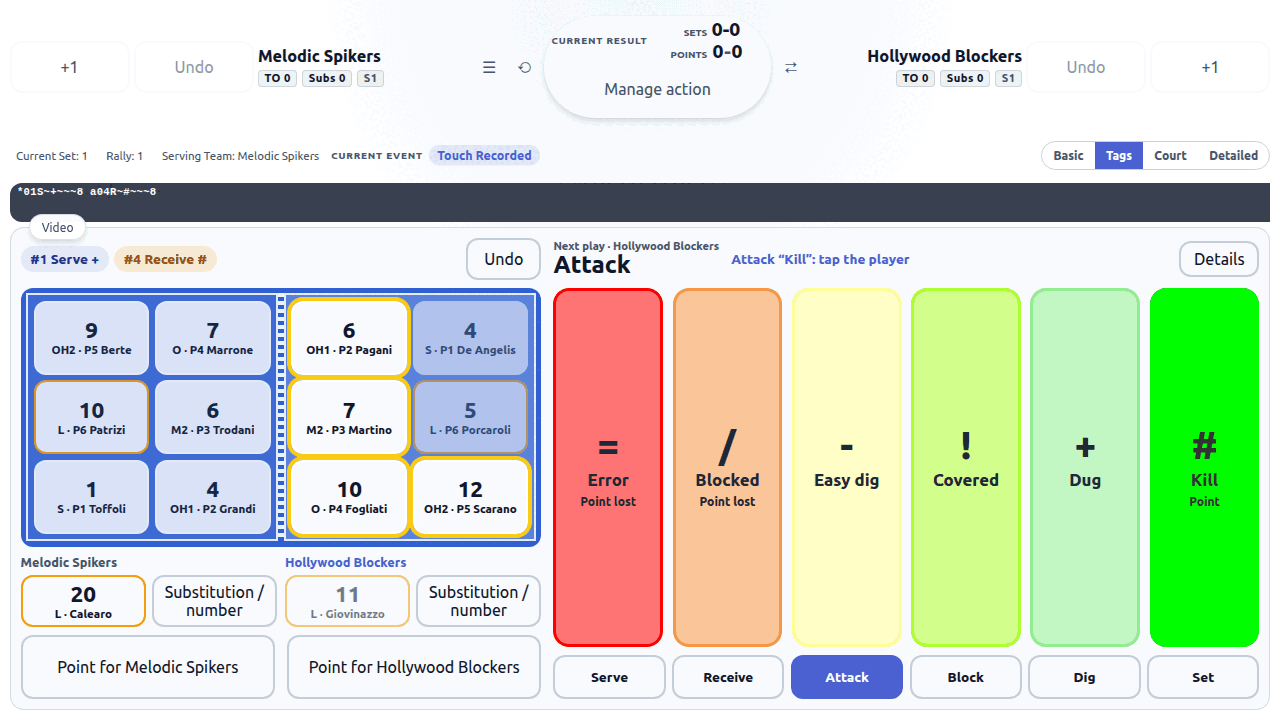
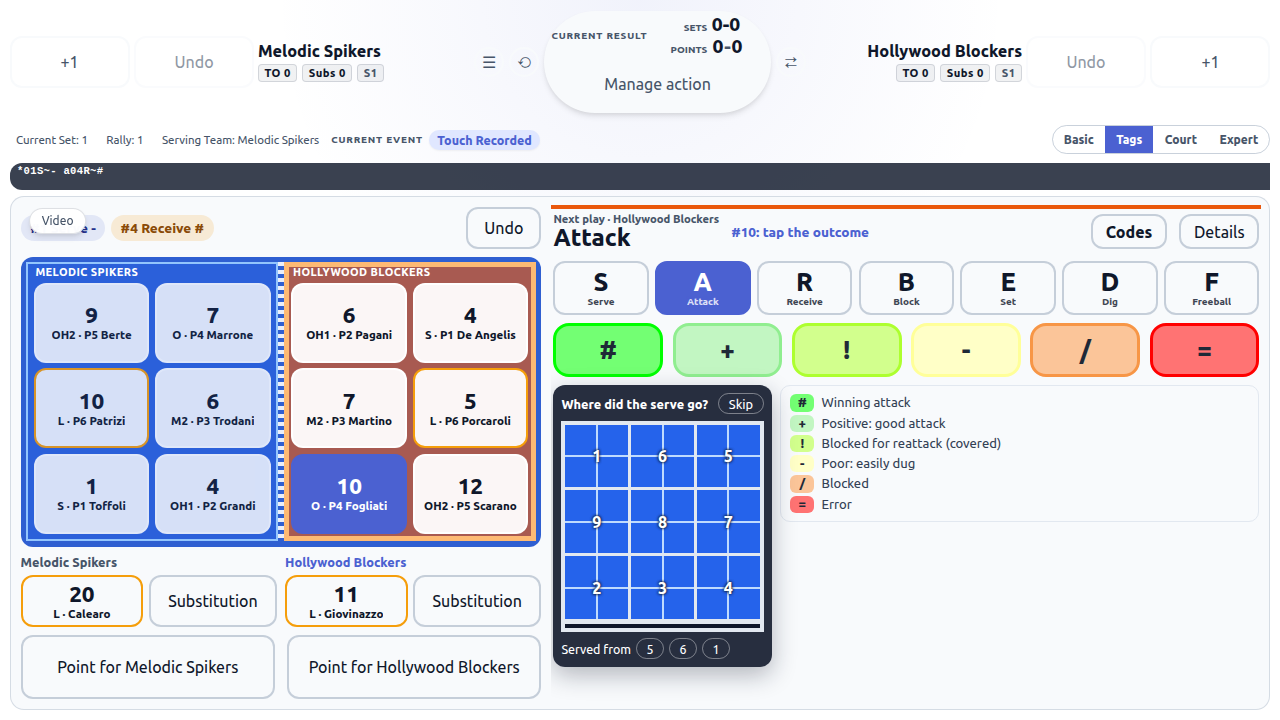
Tags tutorial retaken on the new keypad; rosters without player or libero limits; Codes beside Details

diff --git a/src/i18n/locales/ar.ts b/src/i18n/locales/ar.ts
@@ -2618,4 +2618,21 @@ export const ar = {
   quickStartStepOf: "الخطوة {{current}} من {{total}}",
   quickStartLiberos: "الليبرو",
   quickStartLiberoNumber: "رقم الليبرو {{index}}",
+  tutorialTagK01: "في بداية الشوط اختر الوسوم: التسجيل بالأزرار فقط دون الرسم على الملعب.",
+  tutorialTagK02: "الإرسال: يعرف OVS المرسل من الدوران وS (إرسال) مختار مسبقًا. اضغط التقييم فقط، هنا - . على اليمين يشرح المفتاح معنى كل رمز.",
+  tutorialTagK03: "رمز مركّب: بعد إرسال - لا يكون استقبال الفريق الآخر إلا # أو +. يختار OVS الاستقبال R ويضيء هذين: اضغط من استقبل، هنا رقم 4 من هوليوود بلوكرز…",
+  tutorialTagK04: "…ثم التقييم، هنا # (ممتاز).",
+  tutorialTagK05: "يقترح OVS اللعبة التالية، الهجوم (يضيف الإعداد تلقائيًا). اضغط من هاجم، هنا رقم 10…",
+  tutorialTagK06: "…والتقييم، هنا # (نقطة). تتحدث النتيجة والإرسال والدوران تلقائيًا.",
+  tutorialTagK07: "اختياري: أين ذهب الهجوم. اضغط المنطقة (على اللوحي والحاسوب المنطقة الفرعية أيضًا) أو تخطَّ.",
+  tutorialTagK08: "إذا أخطأت، تراجع يحذف آخر لمسة ويستمر التبادل من هناك.",
+  tutorialTagK09: "إذا لم تكن اللعبة هي المقترحة، اختر المهارة من صف الأزرار: هنا B (حائط صد).",
+  tutorialTagK10: "ثم من صدّ، هنا رقم 6 من ميلوديك سبايكرز…",
+  tutorialTagK11: "…والتقييم، هنا # (نقطة صد).",
+  tutorialTagK12: "لنقطة بلا لمسة تُسجَّل (خطأ، شبكة، بطاقة) استخدم نقطة لـ …",
+  tutorialTagK13: "اللمسة لمن ليس في الملعب؟ التبديل يفتح الاحتياط ولوحة الأرقام؛ الليبرو بجانبه.",
+  tutorialTagK14: "اكتب رقم القميص: هنا 4…",
+  tutorialTagK15: "…و2: برقمين يدخل الرقم فورًا. إذا امتلأ الملعب يسأل OVS من يخرج.",
+  tutorialTagK16: "الرموز تعرض قائمة رموز DataVolley المدخلة حتى الآن، ويمكن تصحيحها من هناك.",
+  tutorialTagK17: "كل لمسة رمز DataVolley: هذا ما يكتبه تصدير DVW. عد إلى لوحة المفاتيح للمتابعة.",
 };

diff --git a/src/i18n/locales/ja.ts b/src/i18n/locales/ja.ts
@@ -2597,4 +2597,21 @@ export const ja = {
   quickStartStepOf: "ステップ {{current}}／{{total}}",
   quickStartLiberos: "リベロ",
   quickStartLiberoNumber: "リベロ{{index}}の背番号",
+  tutorialTagK01: "セット開始時にタグを選ぶ：コートに描かずボタンだけで記録します。",
+  tutorialTagK02: "サーブ：サーバーはローテーションからOVSが把握し、S（サーブ）は選択済み。評価だけタップ、ここでは - 。右の凡例が各記号の意味を示します。",
+  tutorialTagK03: "複合コード：- のサーブの後、相手のレセプションは # か + だけ。OVSがRを選び、その2つを点灯：レシーブした選手をタップ、ここではハリウッド・ブロッカーズの4…",
+  tutorialTagK04: "…次に評価、ここでは #（完璧）。",
+  tutorialTagK05: "OVSが次のプレー、アタックを提案（トスは自動で追加）。アタックした選手をタップ、ここでは10…",
+  tutorialTagK06: "…そして評価、ここでは #（得点）。得点、サーブ、ローテーションは自動で更新されます。",
+  tutorialTagK07: "任意：アタックの行き先。ゾーンをタップ（タブレットとPCではサブゾーンも）、またはスキップ。",
+  tutorialTagK08: "間違えたら、元に戻すで最後のタッチを削除し、そこからラリーを続けます。",
+  tutorialTagK09: "提案と違うプレーなら、キーの列で技術を選ぶ：ここでは B（ブロック）。",
+  tutorialTagK10: "次にブロックした選手、ここではメロディック・スパイカーズの6…",
+  tutorialTagK11: "…そして評価、ここでは #（ブロック得点）。",
+  tutorialTagK12: "記録するタッチのない得点（反則、ネット、カード）は「…に得点」を使います。",
+  tutorialTagK13: "コートにいない選手のタッチ？ 交代でベンチとキーパッドを開きます。リベロはその隣です。",
+  tutorialTagK14: "背番号を入力：ここでは4…",
+  tutorialTagK15: "…と2：2桁ですぐ入力。コートが満員ならOVSが誰が出るかをたずねます。",
+  tutorialTagK16: "コードでこれまでに入力したDataVolleyコードの一覧を表示し、そこから修正できます。",
+  tutorialTagK17: "各タッチはDataVolleyコード：DVWエクスポートに書かれる内容です。キーパッドに戻って続けます。",
 };

diff --git a/src/i18n/locales/de.ts b/src/i18n/locales/de.ts
@@ -2616,4 +2616,21 @@ export const de = {
   quickStartStepOf: "Schritt {{current}} von {{total}}",
   quickStartLiberos: "Liberos",
   quickStartLiberoNumber: "Nummer Libero {{index}}",
+  tutorialTagK01: "Zu Satzbeginn Tags wählen: erfasst wird nur mit Tasten, ohne aufs Feld zu zeichnen.",
+  tutorialTagK02: "Aufschlag: den Aufschläger kennt OVS aus der Rotation, S (Aufschlag) ist schon gewählt. Nur die Bewertung tippen, hier - . Rechts erklärt die Legende jedes Zeichen.",
+  tutorialTagK03: "Zusammengesetzter Code: nach einem Aufschlag - kann die Annahme der anderen Mannschaft nur # oder + sein. OVS wählt schon R und hebt die beiden hervor: tippe, wer angenommen hat, hier die 4 der Hollywood Blockers…",
+  tutorialTagK04: "…dann die Bewertung, hier # (perfekt).",
+  tutorialTagK05: "OVS schlägt den nächsten Spielzug vor, den Angriff (das Zuspiel fügt es selbst hinzu). Tippe, wer angegriffen hat, hier die 10…",
+  tutorialTagK06: "…und die Bewertung, hier # (Punkt). Spielstand, Aufschlag und Rotation aktualisieren sich selbst.",
+  tutorialTagK07: "Optional: wohin der Angriff ging. Zone tippen (auf Tablet und Computer auch die Unterzone) oder Überspringen.",
+  tutorialTagK08: "Bei einem Fehler entfernt Rückgängig den letzten Kontakt und der Ballwechsel geht von dort weiter.",
+  tutorialTagK09: "Ist der Spielzug nicht der vorgeschlagene, wähle das Element in der Tastenreihe: hier B (Block).",
+  tutorialTagK10: "Dann wer geblockt hat, hier die 6 der Melodic Spikers…",
+  tutorialTagK11: "…und die Bewertung, hier # (Blockpunkt).",
+  tutorialTagK12: "Für einen Punkt ohne Kontakt (Fehler, Netz, Karte) Punkt für … verwenden.",
+  tutorialTagK13: "Kontakt von jemandem, der nicht auf dem Feld steht? Wechsel öffnet Bank und Tastatur; die Liberos stehen daneben.",
+  tutorialTagK14: "Trikotnummer eintippen: hier 4…",
+  tutorialTagK15: "…und 2: mit zwei Ziffern ist die Nummer sofort drin. Ist das Feld voll, fragt OVS, wer rausgeht.",
+  tutorialTagK16: "Codes zeigt die Liste der bisher eingegebenen DataVolley-Codes, dort lassen sie sich korrigieren.",
+  tutorialTagK17: "Jeder Kontakt ist ein DataVolley-Code: genau das schreibt der DVW-Export. Zurück zur Tastatur, um weiterzumachen.",
 };

diff --git a/src/i18n/locales/it.ts b/src/i18n/locales/it.ts
@@ -2618,4 +2618,21 @@ export const it = {
   quickStartStepOf: "Passaggio {{current}} di {{total}}",
   quickStartLiberos: "Liberi",
   quickStartLiberoNumber: "Numero del libero {{index}}",
+  tutorialTagK01: "All'inizio del set scegli Tag: si rileva solo con i pulsanti, senza disegnare sul campo.",
+  tutorialTagK02: "Battuta: chi batte OVS lo sa già dalla rotazione e B (battuta) è già scelta. Tocca solo la valutazione, qui - . A destra la legenda dice cosa significa ogni simbolo.",
+  tutorialTagK03: "Codice composto: dopo una battuta - la ricezione dell'altra squadra può essere solo # o +. OVS sceglie già R e accende quelle due: tocca chi ha ricevuto, qui il 4 delle Hollywood Blockers…",
+  tutorialTagK04: "…poi la valutazione, qui # (perfetta).",
+  tutorialTagK05: "OVS propone il tocco successivo, l'attacco (l'alzata del palleggiatore la aggiunge da solo). Tocca chi ha attaccato, qui il 10…",
+  tutorialTagK06: "…e la valutazione, qui # (punto). Punteggio, battuta e rotazione si aggiornano da soli.",
+  tutorialTagK07: "Facoltativo: dove è andato l'attacco. Tocca la zona (su tablet e computer anche la sottozona), oppure Salta.",
+  tutorialTagK08: "Se avevi sbagliato, Annulla toglie l'ultimo tocco e lo scambio riprende da lì.",
+  tutorialTagK09: "Se il tocco non è quello proposto, scegli il fondamentale nella riga dei tasti: qui M (muro).",
+  tutorialTagK10: "Poi chi ha murato, qui il 6 delle Melodic Spikers…",
+  tutorialTagK11: "…e la valutazione, qui # (punto a muro).",
+  tutorialTagK12: "Per un punto senza un tocco da registrare (fallo, invasione, cartellino) usa Punto a …",
+  tutorialTagK13: "Il tocco è di chi non è in campo? Sostituzione apre la panchina e il tastierino; i liberi sono accanto.",
+  tutorialTagK14: "Digita il numero di maglia: qui 4…",
+  tutorialTagK15: "…e 2: con due cifre il numero entra subito. Se il campo è pieno, OVS chiede chi esce.",
+  tutorialTagK16: "Codici mostra l'elenco dei codici DataVolley inseriti finora, e da lì si possono correggere.",
+  tutorialTagK17: "Ogni tocco è un codice DataVolley: è quello che esce nell'export DVW. Torna al tastierino per continuare.",
 };

diff --git a/src/i18n/locales/tr.ts b/src/i18n/locales/tr.ts
@@ -2612,4 +2612,21 @@ export const tr = {
   quickStartStepOf: "Adım {{current}} / {{total}}",
   quickStartLiberos: "Liberolar",
   quickStartLiberoNumber: "{{index}}. libero numarası",
+  tutorialTagK01: "Set başında Etiketler'i seç: sahaya çizmeden yalnızca düğmelerle kayıt yapılır.",
+  tutorialTagK02: "Servis: servisçiyi OVS rotasyondan bilir, S (servis) zaten seçili. Sadece değerlendirmeye dokun, burada - . Sağdaki açıklama her sembolü anlatır.",
+  tutorialTagK03: "Bileşik kod: - servisten sonra diğer takımın karşılaması yalnızca # ya da + olabilir. OVS R'yi seçer ve bu ikisini yakar: kimin karşıladığına dokun, burada Hollywood Blockers'ın 4'ü…",
+  tutorialTagK04: "…sonra değerlendirme, burada # (mükemmel).",
+  tutorialTagK05: "OVS sonraki hareketi, hücumu önerir (pası kendisi ekler). Kimin hücum ettiğine dokun, burada 10…",
+  tutorialTagK06: "…ve değerlendirme, burada # (sayı). Skor, servis ve rotasyon kendiliğinden güncellenir.",
+  tutorialTagK07: "İsteğe bağlı: hücum nereye gitti. Bölgeye dokun (tablet ve bilgisayarda alt bölgeye de) ya da Atla.",
+  tutorialTagK08: "Yanlış yaptıysan Geri al son dokunuşu siler ve ralli oradan devam eder.",
+  tutorialTagK09: "Hareket önerilen değilse tuş sırasından tekniği seç: burada B (blok).",
+  tutorialTagK10: "Sonra kimin blok yaptığı, burada Melodic Spikers'ın 6'sı…",
+  tutorialTagK11: "…ve değerlendirme, burada # (blok sayısı).",
+  tutorialTagK12: "Kaydedilecek dokunuş olmayan bir sayı için (hata, file, kart) … için sayı'yı kullan.",
+  tutorialTagK13: "Dokunuş sahada olmayan birinin mi? Oyuncu değişikliği yedekleri ve tuş takımını açar; liberolar yanındadır.",
+  tutorialTagK14: "Forma numarasını yaz: burada 4…",
+  tutorialTagK15: "…ve 2: iki haneyle numara hemen girer. Saha doluysa OVS kimin çıkacağını sorar.",
+  tutorialTagK16: "Kodlar şimdiye kadar girilen DataVolley kodlarının listesini gösterir, oradan düzeltilebilir.",
+  tutorialTagK17: "Her dokunuş bir DataVolley kodudur: DVW dışa aktarımının yazdığı budur. Devam etmek için tuş takımına dön.",
 };

diff --git a/src/i18n/locales/es.ts b/src/i18n/locales/es.ts
@@ -2618,4 +2618,21 @@ export const es = {
   quickStartStepOf: "Paso {{current}} de {{total}}",
   quickStartLiberos: "Líberos",
   quickStartLiberoNumber: "Dorsal del líbero {{index}}",
+  tutorialTagK01: "Al inicio del set elige Etiquetas: se registra solo con botones, sin dibujar en la cancha.",
+  tutorialTagK02: "Saque: OVS ya sabe quién saca por la rotación y S (saque) ya está elegido. Toca solo la valoración, aquí - . A la derecha la leyenda explica cada símbolo.",
+  tutorialTagK03: "Código compuesto: tras un saque - la recepción del otro equipo solo puede ser # o +. OVS ya elige R y enciende esas dos: toca quién recibió, aquí el 4 de Hollywood Blockers…",
+  tutorialTagK04: "…luego la valoración, aquí # (perfecta).",
+  tutorialTagK05: "OVS propone la siguiente jugada, el ataque (la colocación la añade solo). Toca quién atacó, aquí el 10…",
+  tutorialTagK06: "…y la valoración, aquí # (punto). Marcador, saque y rotación se actualizan solos.",
+  tutorialTagK07: "Opcional: adónde fue el ataque. Toca la zona (en tablet y ordenador también la subzona) u Omitir.",
+  tutorialTagK08: "Si te equivocaste, Deshacer quita el último toque y la jugada sigue desde ahí.",
+  tutorialTagK09: "Si la jugada no es la propuesta, elige el fundamento en la fila de teclas: aquí B (bloqueo).",
+  tutorialTagK10: "Luego quién bloqueó, aquí el 6 de Melodic Spikers…",
+  tutorialTagK11: "…y la valoración, aquí # (punto de bloqueo).",
+  tutorialTagK12: "Para un punto sin toque que registrar (falta, red, tarjeta) usa Punto para …",
+  tutorialTagK13: "¿El toque es de alguien que no está en cancha? Sustitución abre el banquillo y el teclado; los líberos están al lado.",
+  tutorialTagK14: "Escribe el dorsal: aquí 4…",
+  tutorialTagK15: "…y 2: con dos cifras el dorsal entra enseguida. Si la cancha está llena, OVS pregunta quién sale.",
+  tutorialTagK16: "Códigos muestra la lista de códigos DataVolley introducidos, y desde ahí se corrigen.",
+  tutorialTagK17: "Cada toque es un código DataVolley: es lo que escribe la exportación DVW. Vuelve al teclado para seguir.",
 };

diff --git a/src/i18n/locales/en.ts b/src/i18n/locales/en.ts
@@ -2618,4 +2618,21 @@ export const en = {
   quickStartStepOf: "Step {{current}} of {{total}}",
   quickStartLiberos: "Liberos",
   quickStartLiberoNumber: "Libero {{index}} number",
+  tutorialTagK01: "At the start of the set choose Tags: you scout with buttons only, without drawing on the court.",
+  tutorialTagK02: "Serve: OVS knows the server from the rotation and S (serve) is already chosen. Just tap the evaluation, here - . On the right the legend says what each symbol means.",
+  tutorialTagK03: "Compound code: after a - serve the other team's reception can only be # or +. OVS already picks R and lights those two: tap who received, here number 4 of Hollywood Blockers…",
+  tutorialTagK04: "…then the evaluation, here # (perfect).",
+  tutorialTagK05: "OVS proposes the next play, the attack (it adds the setter's set by itself). Tap who attacked, here number 10…",
+  tutorialTagK06: "…and the evaluation, here # (kill). Score, serve and rotation update by themselves.",
+  tutorialTagK07: "Optional: where the attack went. Tap the zone (on tablets and computers also the subzone), or Skip.",
+  tutorialTagK08: "If you made a mistake, Undo removes the last touch and the rally goes on from there.",
+  tutorialTagK09: "If the play is not the one proposed, choose the skill on the key row: here B (block).",
+  tutorialTagK10: "Then who blocked, here number 6 of Melodic Spikers…",
+  tutorialTagK11: "…and the evaluation, here # (block point).",
+  tutorialTagK12: "For a point with no touch to record (fault, net, card) use Point for …",
+  tutorialTagK13: "Is the touch by someone not on court? Substitution opens the bench and the keypad; the liberos are beside it.",
+  tutorialTagK14: "Type the jersey number: here 4…",
+  tutorialTagK15: "…and 2: with two digits the number goes in at once. If the court is full, OVS asks who goes out.",
+  tutorialTagK16: "Codes shows the list of DataVolley codes entered so far, and they can be corrected from there.",
+  tutorialTagK17: "Every touch is a DataVolley code: it is what the DVW export writes. Back to the keypad to go on.",
 };

diff --git a/src/i18n/locales/ro.ts b/src/i18n/locales/ro.ts
@@ -2618,4 +2618,21 @@ export const ro = {
   quickStartStepOf: "Pasul {{current}} din {{total}}",
   quickStartLiberos: "Libero",
   quickStartLiberoNumber: "Numărul liberoului {{index}}",
+  tutorialTagK01: "La începutul setului alege Etichete: înregistrezi doar cu butoane, fără să desenezi pe teren.",
+  tutorialTagK02: "Serviciu: OVS știe cine servește din rotație și S (serviciu) e deja ales. Atinge doar evaluarea, aici - . În dreapta legenda explică fiecare simbol.",
+  tutorialTagK03: "Cod compus: după un serviciu - preluarea celeilalte echipe poate fi doar # sau +. OVS alege deja R și le aprinde pe acestea: atinge cine a preluat, aici 4 de la Hollywood Blockers…",
+  tutorialTagK04: "…apoi evaluarea, aici # (perfectă).",
+  tutorialTagK05: "OVS propune faza următoare, atacul (pasa o adaugă singur). Atinge cine a atacat, aici 10…",
+  tutorialTagK06: "…și evaluarea, aici # (punct). Scorul, serviciul și rotația se actualizează singure.",
+  tutorialTagK07: "Opțional: unde a mers atacul. Atinge zona (pe tabletă și calculator și subzona) sau Sari.",
+  tutorialTagK08: "Dacă ai greșit, Anulează scoate ultima atingere și faza continuă de acolo.",
+  tutorialTagK09: "Dacă faza nu e cea propusă, alege elementul din rândul de taste: aici B (blocaj).",
+  tutorialTagK10: "Apoi cine a blocat, aici 6 de la Melodic Spikers…",
+  tutorialTagK11: "…și evaluarea, aici # (punct din blocaj).",
+  tutorialTagK12: "Pentru un punct fără atingere de înregistrat (greșeală, fileu, cartonaș) folosește Punct pentru …",
+  tutorialTagK13: "Atingerea e a cuiva care nu e pe teren? Înlocuire deschide banca și tastatura; liberourile sunt alături.",
+  tutorialTagK14: "Tastează numărul: aici 4…",
+  tutorialTagK15: "…și 2: cu două cifre numărul intră imediat. Dacă terenul e plin, OVS întreabă cine iese.",
+  tutorialTagK16: "Coduri arată lista codurilor DataVolley introduse, iar de acolo se pot corecta.",
+  tutorialTagK17: "Fiecare atingere e un cod DataVolley: exact ce scrie exportul DVW. Înapoi la tastatură pentru a continua.",
 };

diff --git a/src/i18n/locales/zh.ts b/src/i18n/locales/zh.ts
@@ -2616,4 +2616,21 @@ export const zh = {
   quickStartStepOf: "第 {{current}} 步，共 {{total}} 步",
   quickStartLiberos: "自由人",
   quickStartLiberoNumber: "自由人 {{index}} 号码",
+  tutorialTagK01: "本局开始时选择标签：只用按钮记录，不在球场上画。",
+  tutorialTagK02: "发球：OVS 已从轮转知道发球者，S（发球）已选中。只需点评价，这里是 - 。右侧图例说明每个符号的含义。",
+  tutorialTagK03: "组合代码：发球 - 之后，对方的一传只能是 # 或 +。OVS 已选好 R 并点亮这两个：点一传的球员，这里是好莱坞拦网者的 4 号…",
+  tutorialTagK04: "…再点评价，这里是 #（完美）。",
+  tutorialTagK05: "OVS 提示下一动作——进攻（二传会自动添加）。点进攻球员，这里是 10 号…",
+  tutorialTagK06: "…再点评价，这里是 #（得分）。比分、发球和轮转会自动更新。",
+  tutorialTagK07: "可选：进攻落点。点区域（平板和电脑上还可点子区域），或跳过。",
+  tutorialTagK08: "如果点错了，撤销会删除最后一次触球，回合从那里继续。",
+  tutorialTagK09: "如果动作不是提示的那个，在按键行中选技术：这里是 B（拦网）。",
+  tutorialTagK10: "然后点拦网的球员，这里是旋律扣球手的 6 号…",
+  tutorialTagK11: "…再点评价，这里是 #（拦网得分）。",
+  tutorialTagK12: "没有可记录触球的得分（犯规、触网、红黄牌）请用“…得分”。",
+  tutorialTagK13: "触球的人不在场上？换人会打开替补和键盘；自由人就在旁边。",
+  tutorialTagK14: "输入球衣号码：这里是 4…",
+  tutorialTagK15: "…和 2：两位数字会立即输入。如果场上已满，OVS 会询问谁下场。",
+  tutorialTagK16: "代码显示至今输入的 DataVolley 代码列表，可在其中更正。",
+  tutorialTagK17: "每次触球都是一个 DataVolley 代码：这就是 DVW 导出写入的内容。返回键盘继续。",
 };

diff --git a/src/i18n/locales/sl.ts b/src/i18n/locales/sl.ts
@@ -2616,4 +2616,21 @@ export const sl = {
   quickStartStepOf: "Korak {{current}} od {{total}}",
   quickStartLiberos: "Libera",
   quickStartLiberoNumber: "Številka libera {{index}}",
+  tutorialTagK01: "Na začetku niza izberi Oznake: beležiš samo z gumbi, brez risanja po igrišču.",
+  tutorialTagK02: "Servis: OVS ve, kdo servira, iz rotacije, S (servis) je že izbran. Tapni samo oceno, tu - . Desno legenda pove, kaj pomeni vsak znak.",
+  tutorialTagK03: "Sestavljena koda: po servisu - je sprejem druge ekipe lahko samo # ali +. OVS že izbere R in prižge ti dve: tapni, kdo je sprejel, tu 4 ekipe Hollywood Blockers…",
+  tutorialTagK04: "…nato oceno, tu # (odlično).",
+  tutorialTagK05: "OVS predlaga naslednjo akcijo, napad (podajo doda sam). Tapni, kdo je napadel, tu 10…",
+  tutorialTagK06: "…in oceno, tu # (točka). Rezultat, servis in rotacija se posodobijo sami.",
+  tutorialTagK07: "Neobvezno: kam je šel napad. Tapni cono (na tablici in računalniku tudi podcono) ali Preskoči.",
+  tutorialTagK08: "Če si se zmotil, Razveljavi odstrani zadnji dotik in akcija se nadaljuje od tam.",
+  tutorialTagK09: "Če akcija ni predlagana, izberi element v vrsti tipk: tu B (blok).",
+  tutorialTagK10: "Nato kdo je blokiral, tu 6 ekipe Melodic Spikers…",
+  tutorialTagK11: "…in oceno, tu # (točka z blokom).",
+  tutorialTagK12: "Za točko brez dotika (napaka, mreža, karton) uporabi Točka za …",
+  tutorialTagK13: "Dotik nekoga, ki ni na igrišču? Menjava odpre klop in tipkovnico; libera sta zraven.",
+  tutorialTagK14: "Vtipkaj številko: tu 4…",
+  tutorialTagK15: "…in 2: z dvema števkama številka vstopi takoj. Če je igrišče polno, OVS vpraša, kdo gre ven.",
+  tutorialTagK16: "Kode pokaže seznam vnesenih kod DataVolley, od tam jih lahko popraviš.",
+  tutorialTagK17: "Vsak dotik je koda DataVolley: to zapiše izvoz DVW. Nazaj na tipkovnico za nadaljevanje.",
 };

diff --git a/src/lib/validation/roster-validation.ts b/src/lib/validation/roster-validation.ts
@@ -1,8 +1,10 @@
 import type { MatchRosterSelectionPlayer } from '@src/domain/match/types';
 
 /**
- * Volleyball roster validation rules
- * Enforces FIVB regulations for match rosters
+ * Match roster checks. OVS records, it does not referee: a roster may hold
+ * any number of players and of liberos (only one libero is on court at a
+ * time, and that is handled in live scouting). Only a double captain is an
+ * error, since the captain mark must be unique.
  */
 
 export interface RosterValidationResult {
@@ -13,13 +15,6 @@ export interface RosterValidationResult {
 
 export function getMatchRosterErrorKeys(selectedPlayers: MatchRosterSelectionPlayer[]): string[] {
   const errors: string[] = [];
-
-
-  const liberoCountCheck = validateLiberoCount(selectedPlayers);
-  if (!liberoCountCheck.isValid && liberoCountCheck.errorCode) {
-    errors.push(liberoCountCheck.errorCode);
-  }
-
 
   const captainCheck = validateCaptainSelection(selectedPlayers);
   if (!captainCheck.isValid && captainCheck.errorCode) {
@@ -150,15 +145,10 @@ export function validateMatchRoster(
   const errors = getMatchRosterErrorKeys(selectedPlayers);
   const warnings: string[] = [];
 
-  // Warnings: official FIVB composition rules are advisory here, since
-  // casual matches often have partial rosters that grow during the match.
+  // No FIVB composition rules (maximum 14, two liberos above 12, minimums):
+  // youth and amateur rosters differ, and the scout records what happens.
   if (selectedPlayers.length === 0) {
     warnings.push('No players selected for match roster');
-  }
-  for (const check of [validateTotalPlayers(selectedPlayers), validateMinimumPlayers(selectedPlayers)]) {
-    if (!check.isValid && check.errorCode) {
-      warnings.push(check.errorCode);
-    }
   }
 
   return {

diff --git a/src/features/scouting/tagging/TagInputPanel.tsx b/src/features/scouting/tagging/TagInputPanel.tsx
@@ -1020,9 +1020,6 @@ export function TagInputPanel({
               );
             })}
           </div>
-          {codeList ? (
-            <button type="button" className="tag-input__codes-toggle" onClick={() => setShowCodes(true)}>{t('tagCodesButton')}</button>
-          ) : null}
           <button type="button" className="tag-input__undo" onClick={onUndo} disabled={!canUndo}>
             {t('undoAction')}
           </button>
@@ -1062,6 +1059,10 @@ export function TagInputPanel({
               <span className="tag-flow__prompt">{prompt}</span>
               {partner ? (
                 <button type="button" className="tag-flow__partner-skip" onClick={skipPartner}>{t('tagPartnerSkip')}</button>
+              ) : null}
+              {/* Beside Details: the corner on the left is taken by the video button. */}
+              {codeList ? (
+                <button type="button" className="tag-input__details-toggle tag-input__codes-toggle" onClick={() => setShowCodes(true)}>{t('tagCodesButton')}</button>
               ) : null}
               <button
                 type="button"
